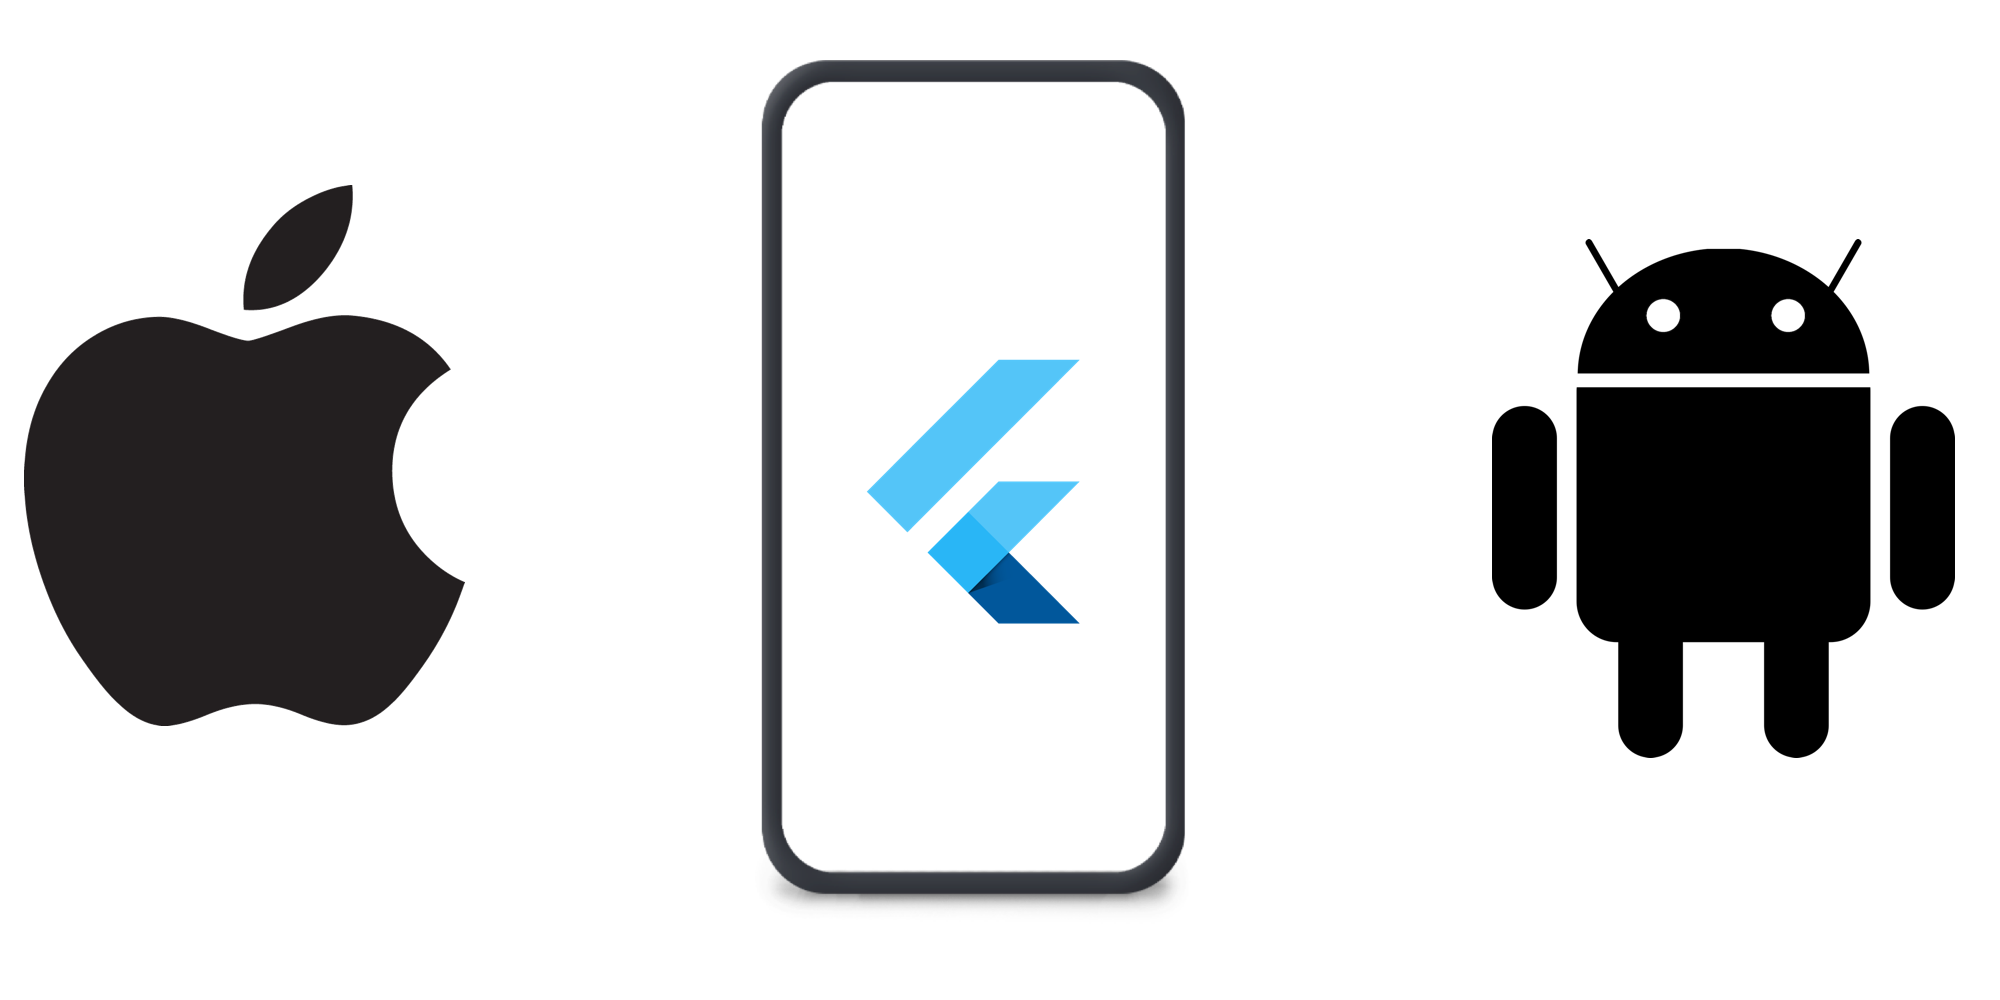
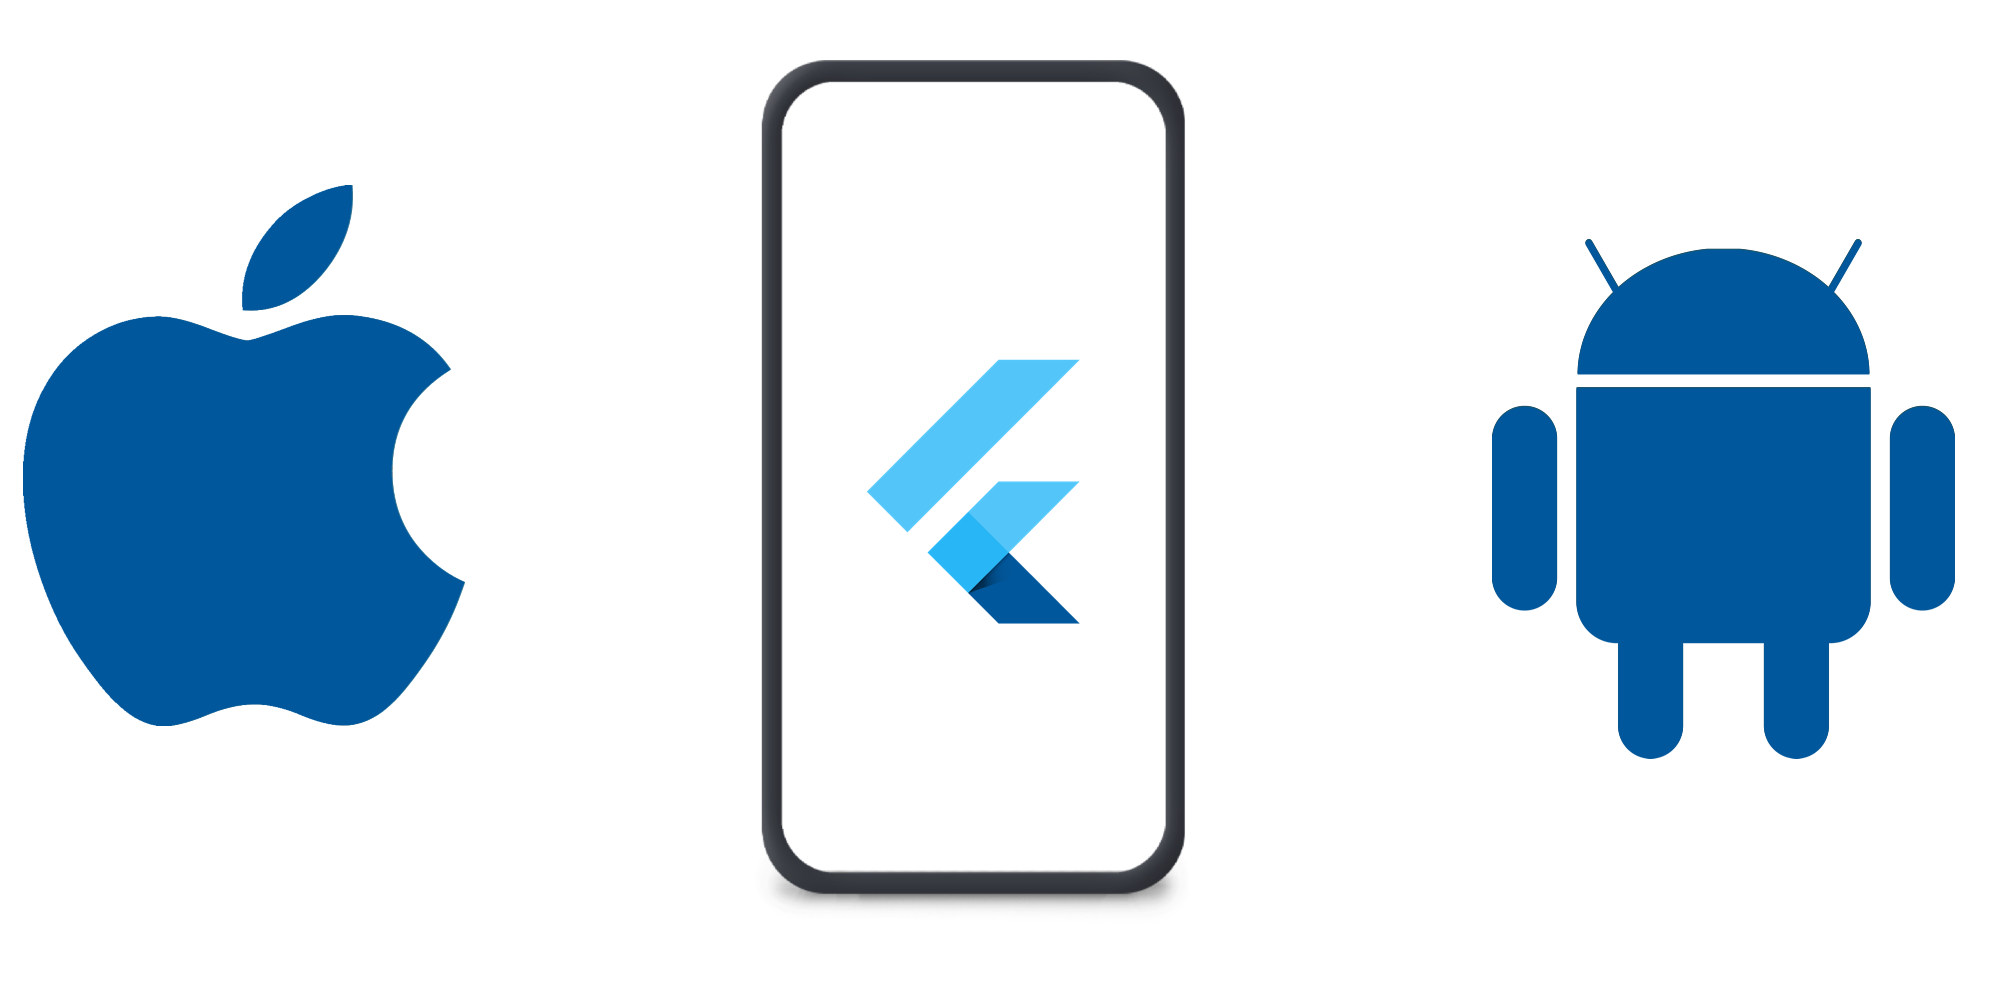
EN Text in the about section is final. Changed the color of the main image (iOS and Android).

Changed region(s): [[0.744, 0.248, 0.992, 0.775], [0.0, 0.186, 0.248, 0.744]]

diff --git a/js/freelancer.min.js b/js/freelancer.min.js
@@ -78,14 +78,15 @@ function translatedStrings(browserLanguage) {
       document.getElementById("closeButton7").innerHTML = "Close";
       document.getElementById("closeButton8").innerHTML = "Close";
 
-      document.getElementById("aboutDetail1").innerHTML = "<b>\"Who are we?\"</b> - Native mobile developers with more than 10 years of experience in mobile development. We are always on top of the latest technologies in development. We know the best practises, architectures and design patters. Our development process will always be transparent and accessible to you.";
-      document.getElementById("aboutDetail2").innerHTML = "<b>\"What is our experience?\"</b> - In our Portfolio you can some of the apps we were responsible for. We have experience in all range of industries, finance, banking, travel, insurance and even dating. We are seriosly committed and used to work under strict dealines. And we will never in any case disclose any details of your app, you can rest assure that your project is safe with us.";
-      document.getElementById("aboutDetail3").innerHTML = "<b>\"How will we build your app?\"</b> - First, fill-in the information on the Contact form and send it to us. We prepared the message with the most common features that our clients usually request. Feel free to edit it and adjust it to the specifc app you have in mind. Second, we will contact you to discuss the feasability of the project and organise a follow-up meeting.";
+      document.getElementById("aboutDetail1").innerHTML = "<b>\"Who are we?\"</b> - Native mobile developers with more than 10 years of experience in mobile development. We are always on top of the latest technologies in development. We know the best practices, architectures and design patters. We will inform and guide you the whole time, our development process will always be transparent and accessible to you.";
+      document.getElementById("aboutDetail2").innerHTML = "<b>\"What is our experience?\"</b> - In our Portfolio you can see some of the apps we were responsible for. We have experience in all range of industries, finance, banking, travel, insurance, even dating. We are seriosly committed and used to work under strict dealines.";
+      document.getElementById("aboutDetail3").innerHTML = "<b>\"How will we build your app?\"</b> - First, fill-in the information on the Contact form and send it to us. Feel free to edit the pre-defined message and adjust it to the specifc app you have in mind. Second, we will contact you to discuss the feasability of the project and organise a follow-up meeting. We will never in any case disclose any details of your app, you can rest assure that your project is safe with us.";
 
       document.getElementById("emailLabel").innerHTML = "Email Address";
 
-      document.getElementById("addressTitle").innerHTML = "Our Address";
+      document.getElementById("addressTitle").innerHTML = "Our Location";
       document.getElementById("profilesTitle").innerHTML = "Our Profiles";
+      document.getElementById("contactTitle").innerHTML = "Our Contact";
       break;
     case 'de':
       document.getElementById("navItemPortfolio").innerHTML = "Portfolio";
@@ -105,15 +106,16 @@ function translatedStrings(browserLanguage) {
       document.getElementById("closeButton7").innerHTML = "Schliessen";
       document.getElementById("closeButton8").innerHTML = "Schliessen";
 
-      document.getElementById("aboutDetail1").innerHTML = "<b>\"Wer sind wir?\"</b> - native mobile Entwickler mit mehr als 10 Jahren Erfahrung in der mobilen Entwicklung. Wir sind immer auf dem neuesten Stand der Technik in der Entwicklung. Wir kennen die Best Practices, Architekturen und Designmuster. Unser Entwicklungsprozess wird immer transparent und für Sie zugänglich sein.";
-      document.getElementById("aboutDetail2").innerHTML = "<b>\"Was ist unsere Erfahrung?\"</b> - In unserem Portfolio können Sie einige der Apps finden, für die wir verantwortlich waren. Wir haben Erfahrung in allen Branchen, Finanzen, Banken, Reisen, Versicherungen und sogar Dating. Wir sind ernsthaft engagiert und es gewohnt, unter strengen Bedingungen zu arbeiten. Und wir werden auf keinen Fall irgendwelche Details Ihrer App preisgeben. Sie können sicher sein, dass Ihr Projekt bei uns sicher ist.";
-      document.getElementById("aboutDetail3").innerHTML = "<b>\"Wie werden wir Ihre App erstellen?\"</b> - Füllen Sie zunächst die Informationen auf dem Kontaktformular aus und senden Sie es an uns. Wir haben die Nachricht mit den gebräuchlichsten Funktionen erstellt, die unsere Kunden normalerweise anfordern. Sie können es jederzeit bearbeiten und an die jeweilige App anpassen. Zweitens werden wir Sie kontaktieren, um die Machbarkeit des Projekts zu besprechen und ein Folgetreffen zu organisieren.";
+      document.getElementById("aboutDetail1").innerHTML = "<b>\"Wer sind wir?\"</b> - Native Mobile-Entwickler mit mehr als 10 Jahren Erfahrung in der Entwicklung von Mobilgeräten. Wir sind immer auf dem neuesten Stand der Technik in der Entwicklung. Wir kennen die Best Practices, Architekturen und Designmuster. Wir werden Sie die ganze Zeit über informieren und begleiten, unser Entwicklungsprozess wird immer transparent und für Sie zugänglich sein.";
+      document.getElementById("aboutDetail2").innerHTML = "<b>\"Was ist unsere Erfahrung?\"</b> - In unserem Portfolio sehen Sie einige der Apps, für die wir verantwortlich waren. Wir haben Erfahrung in allen Branchen, Finanzen, Banken, Reisen, Versicherungen, sogar Dating. Wir sind ernsthaft engagiert und es gewohnt, unter strengen Bedingungen zu arbeiten.";
+      document.getElementById("aboutDetail3").innerHTML = "<b>\"Wie werden wir Ihre App erstellen?\"</b> - Füllen Sie zunächst die Informationen auf dem Kontaktformular aus und senden Sie es an uns. Sie können die vordefinierte Nachricht jederzeit bearbeiten und an die von Ihnen gewünschte App anpassen. Zweitens werden wir Sie kontaktieren, um die Machbarkeit des Projekts zu besprechen und ein Folgetreffen zu organisieren. Wir werden in keinem Fall Details zu Ihrer App veröffentlichen. Sie können sicher sein, dass Ihr Projekt bei uns sicher ist.";
 
       document.getElementById("emailLabel").innerHTML = "E-Mail-Addresse";
       document.getElementById("emailMessagePlaceholder").innerHTML = "- Do you have a budget? Yes/No. If yes how much? - Both platforms (iOS, Android)? Yes/No. If no, which one? - Do you need user authentication (login/registration)? Yes/No. - Social Media login (Facebook/Twitter/Instagram)? Yes/No. - How big (number of screens) would you say the app is? S/M/L/XL. - Do you need maps (location) functionality? Yes/No. - Do you need analytics (tracking user actions)? Yes/No. - Do you need data persistence (saving data locally on smartphone to be available offline)? Yes/No. - Do you need the app to have more than one supported language? Yes/No.";
 
       document.getElementById("addressTitle").innerHTML = "Unsere Adresse";
       document.getElementById("profilesTitle").innerHTML = "Unsere Profile";
+      document.getElementById("contactTitle").innerHTML = "Unsere Kontakt";
 
       break;
     case 'es':
@@ -134,14 +136,15 @@ function translatedStrings(browserLanguage) {
       document.getElementById("closeButton7").innerHTML = "Cerrar";
       document.getElementById("closeButton8").innerHTML = "Cerrar";
 
-      document.getElementById("aboutDetail1").innerHTML = "<b>\"¿Quienes somos?\"</b> - Desarrolladores móviles nativos con más de 10 años de experiencia en desarrollo móvil. Estamos siempre a la vanguardia de las últimas tecnologías en desarrollo. Conocemos las mejores prácticas, arquitecturas y patrones de diseño. Nuestro proceso de desarrollo siempre será transparente y accesible para usted.";
-      document.getElementById("aboutDetail2").innerHTML = "<b>\"¿Cuál es nuestra experiencia?\"</b> - En nuestro Portafolio puede ver algunas de las aplicaciones de las que somos responsables. Tenemos experiencia en toda la gama de industrias, finanzas, banca, viajes, seguros e incluso citas. Estamos seriosamente comprometidos y solemos trabajar bajo estrictos tratos. Y en ningún caso divulgaremos ningún detalle de su aplicación, puede estar seguro de que su proyecto está seguro con nosotros.";
-      document.getElementById("aboutDetail3").innerHTML = "<b>\"¿Cómo construiremos tu aplicación?\"</b> - Primero, complete la información en el formulario de contacto y envíenosla. Preparamos el mensaje con las características más comunes que nuestros clientes suelen solicitar. Siéntase libre de editarlo y ajustarlo a la aplicación específica que tenga en mente. En segundo lugar, nos pondremos en contacto con usted para analizar la viabilidad del proyecto y organizar una reunión de seguimiento.";
+      document.getElementById("aboutDetail1").innerHTML = "<b>\"¿Quienes somos?\"</b> - Desarrolladores móviles nativos con más de 10 años de experiencia en desarrollo móvil. Estamos siempre a la vanguardia de las últimas tecnologías en desarrollo. Conocemos las mejores prácticas, arquitecturas y patrones de diseño. Le informaremos y guiaremos todo el tiempo, nuestro proceso de desarrollo siempre será transparente y accesible para usted.";
+      document.getElementById("aboutDetail2").innerHTML = "<b>\"¿Cuál es nuestra experiencia?\"</b> - En nuestra cartera puede ver algunas de las aplicaciones de las que somos responsables. Tenemos experiencia en toda la gama de industrias, finanzas, banca, viajes, seguros, incluso citas. Estamos seriosamente comprometidos y solemos trabajar bajo estrictos tratos.";
+      document.getElementById("aboutDetail3").innerHTML = "<b>\"¿Cómo construiremos tu aplicación?\"</b> - Primero, complete la información en el formulario de contacto y envíenosla. Siéntase libre de editar el mensaje predefinido y ajústelo a la aplicación específica que tenga en mente. En segundo lugar, nos pondremos en contacto con usted para analizar la viabilidad del proyecto y organizar una reunión de seguimiento. En ningún caso, nunca divulgaremos ningún detalle de su aplicación, puede estar seguro de que su proyecto está seguro con nosotros.";
 
       document.getElementById("emailLabel").innerHTML = "Correo Electrónico";
 
       document.getElementById("addressTitle").innerHTML = "Nuestra dirección";
       document.getElementById("profilesTitle").innerHTML = "Nuestros perfiles";
+      document.getElementById("contactTitle").innerHTML = "Nuestro contacto";
 
       break;
     default:
@@ -162,14 +165,16 @@ function translatedStrings(browserLanguage) {
       document.getElementById("closeButton7").innerHTML = "Close";
       document.getElementById("closeButton8").innerHTML = "Close";
 
-      document.getElementById("aboutDetail1").innerHTML = "<b>\"Who are we?\"</b> - Native mobile developers with more than 10 years of experience in mobile development. We are always on top of the latest technologies in development. We know the best practises, architectures and design patters. Our development process will always be transparent and accessible to you.";
-      document.getElementById("aboutDetail2").innerHTML = "<b>\"What is our experience?\"</b> - In our Portfolio you can some of the apps we were responsible for. We have experience in all range of industries, finance, banking, travel, insurance and even dating. We are seriosly committed and used to work under strict dealines. And we will never in any case disclose any details of your app, you can rest assure that your project is safe with us.";
-      document.getElementById("aboutDetail3").innerHTML = "<b>\"How will we build your app?\"</b> - First, fill-in the information on the Contact form and send it to us. We prepared the message with the most common features that our clients usually request. Feel free to edit it and adjust it to the specifc app you have in mind. Second, we will contact you to discuss the feasability of the project and organise a follow-up meeting.";
+      document.getElementById("aboutDetail1").innerHTML = "<b>\"Who are we?\"</b> - Native mobile developers with more than 10 years of experience in mobile development. We are always on top of the latest technologies in development. We know the best practices, architectures and design patters. We will inform and guide you the whole time, our development process will always be transparent and accessible to you.";
+      document.getElementById("aboutDetail2").innerHTML = "<b>\"What is our experience?\"</b> - In our Portfolio you can see some of the apps we were responsible for. We have experience in all range of industries, finance, banking, travel, insurance, even dating. We are seriosly committed and used to work under strict dealines.";
+      document.getElementById("aboutDetail3").innerHTML = "<b>\"How will we build your app?\"</b> - First, fill-in the information on the Contact form and send it to us. Feel free to edit the pre-defined message and adjust it to the specifc app you have in mind. Second, we will contact you to discuss the feasability of the project and organise a follow-up meeting. We will never in any case disclose any details of your app, you can rest assure that your project is safe with us.";
 
       document.getElementById("emailLabel").innerHTML = "Email Address";
 
       document.getElementById("addressTitle").innerHTML = "Our Address";
       document.getElementById("profilesTitle").innerHTML = "Our Profiles";
+      document.getElementById("contactTitle").innerHTML = "Our Contact";
+
       break;
   }
 }

diff --git a/index.html b/index.html
@@ -261,53 +261,37 @@
 
   <!-- Footer -->
   <footer class="footer text-center">
-    <div class="container text-center">
+    <div class="container">
       <div class="row">
         <div class="col-md-4 mb-4">
           <h4 id="addressTitle" class="text-uppercase mb-4">Our Location</h4>
           <p class="lead mb-0">8001 Zürich, Switzerland</p>
         </div>
-        <!-- <br>Clark, MO 45243</p>3        </div> -->
         <div class="col-md-4 mb-4">
-          <h4 id="profilesTitle" class="text-uppercase mb-4"></h4>
+          <h4 id="profilesTitle" class="text-uppercase mb-4">Our Profiles</h4>
           <ul class="list-inline mb-0">
-            <!-- <li class="list-inline-item">
-              <a class="btn btn-outline-light btn-social text-center rounded-circle" href="#">
-                <i class="fab fa-fw fa-facebook-f"></i>
-              </a>
-            </li>
             <li class="list-inline-item">
-              <a class="btn btn-outline-light btn-social text-center rounded-circle" href="#">
-                <i class="fab fa-fw fa-google-plus-g"></i>
-              </a>
-            </li>
-            <li class="list-inline-item">
-              <a class="btn btn-outline-light btn-social text-center rounded-circle" href="#">
-                <i class="fab fa-fw fa-twitter"></i>
-              </a>
-            </li> -->
-            <li class="list-inline-item">
-              <a class="btn btn-outline-light btn-social text-center rounded-circle" href="#">
+              <a class="btn btn-outline-light btn-social text-center rounded-circle" href="https://www.linkedin.com/in/bruno-r-83986963/">
                 <i class="fab fa-fw fa-linkedin-in"></i>
               </a>
             </li>
             <li class="list-inline-item">
-              <a class="btn btn-outline-light btn-social text-center rounded-circle" href="#">
+              <a class="btn btn-outline-light btn-social text-center rounded-circle" href="https://ch.linkedin.com/in/marcel-ritz">
                 <i class="fab fa-fw fa-linkedin-in"></i>
               </a>
             </li>
-            <!-- <li class="list-inline-item">
-              <a class="btn btn-outline-light btn-social text-center rounded-circle" href="#">
-                <i class="fab fa-fw fa-dribbble"></i>
-              </a>
-            </li> -->
           </ul>
         </div>
-        <!-- <div class="col-md-4">
-          <h4 class="text-uppercase mb-4">About Freelancer</h4>
-          <p class="lead mb-0">Freelance is a free to use, open source Bootstrap theme created by
-            <a href="http://startbootstrap.com">Start Bootstrap</a>.</p>
-        </div> -->
+        <div class="col-md-4">
+          <h4 id="contactTitle" class="text-uppercase mb-4">Our Contact</h4>
+          <ul class="list-inline mb-0">
+              <li class="list-inline-item">
+                  <a class="btn btn-outline-light btn-social text-center rounded-circle" href="mailto:appvanced@gmail.com">
+                    <i class="fab fa-fw fa-twitter"></i>
+                  </a>
+                </li>
+          </ul>                
+        </div>
       </div>
     </div>
   </footer>
